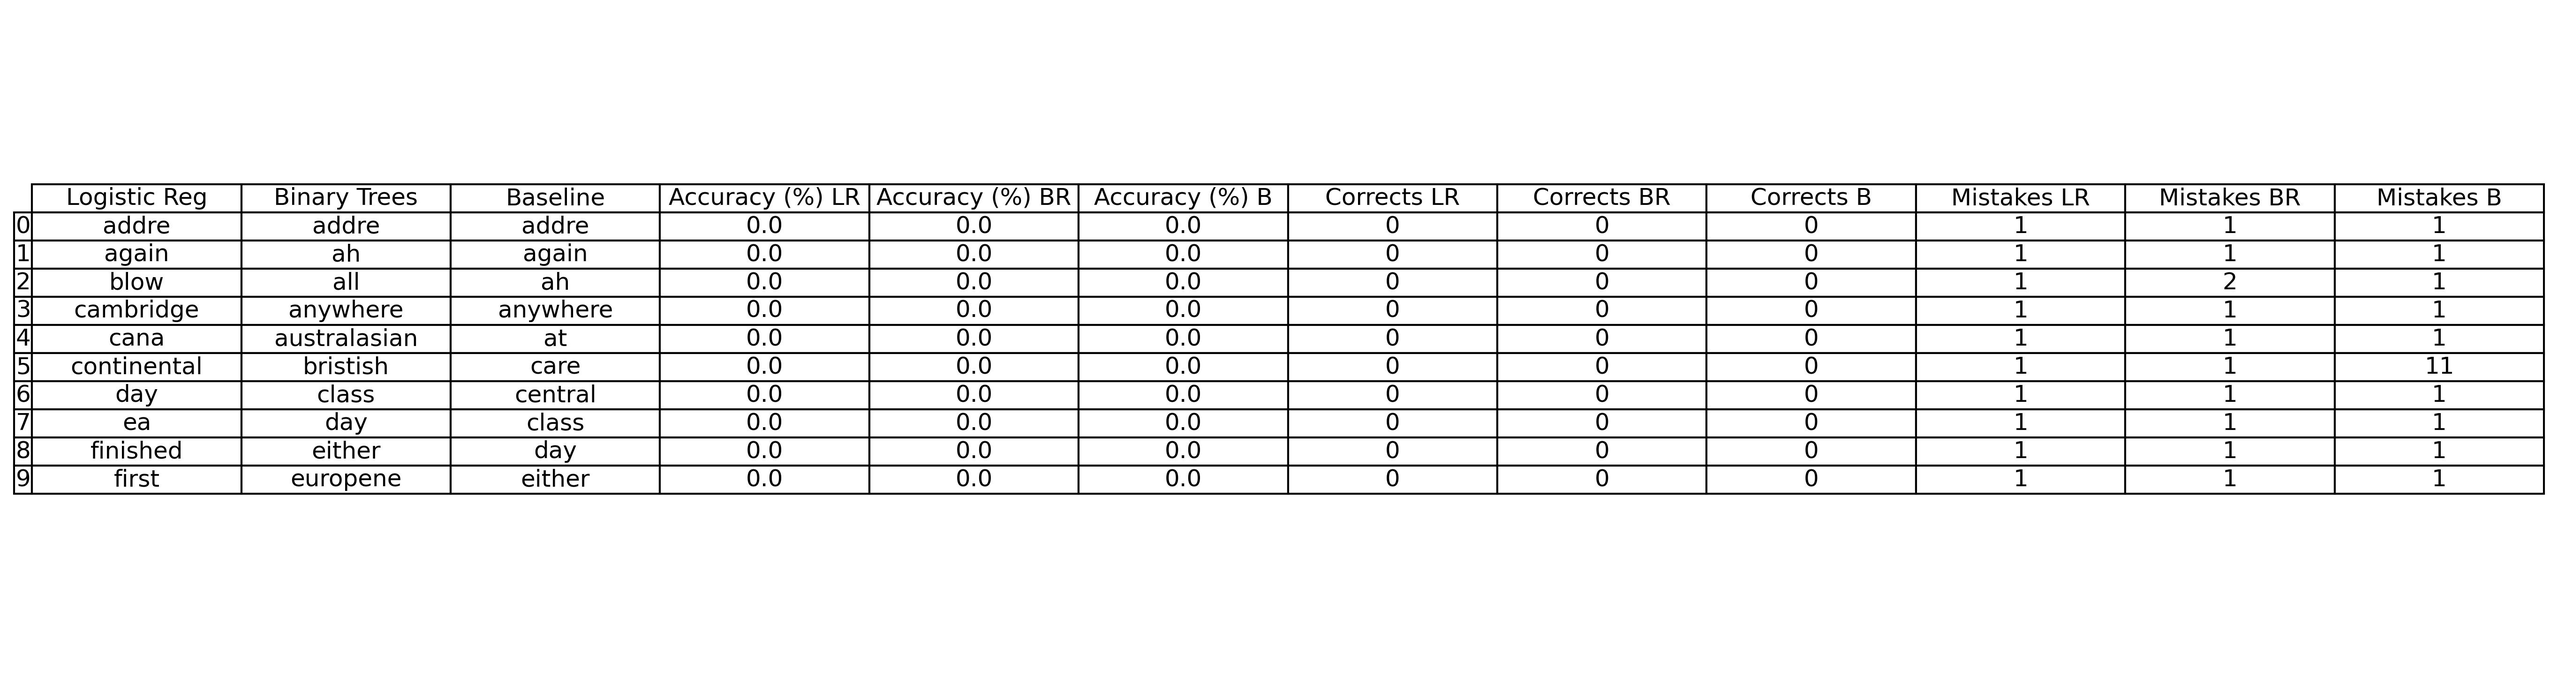
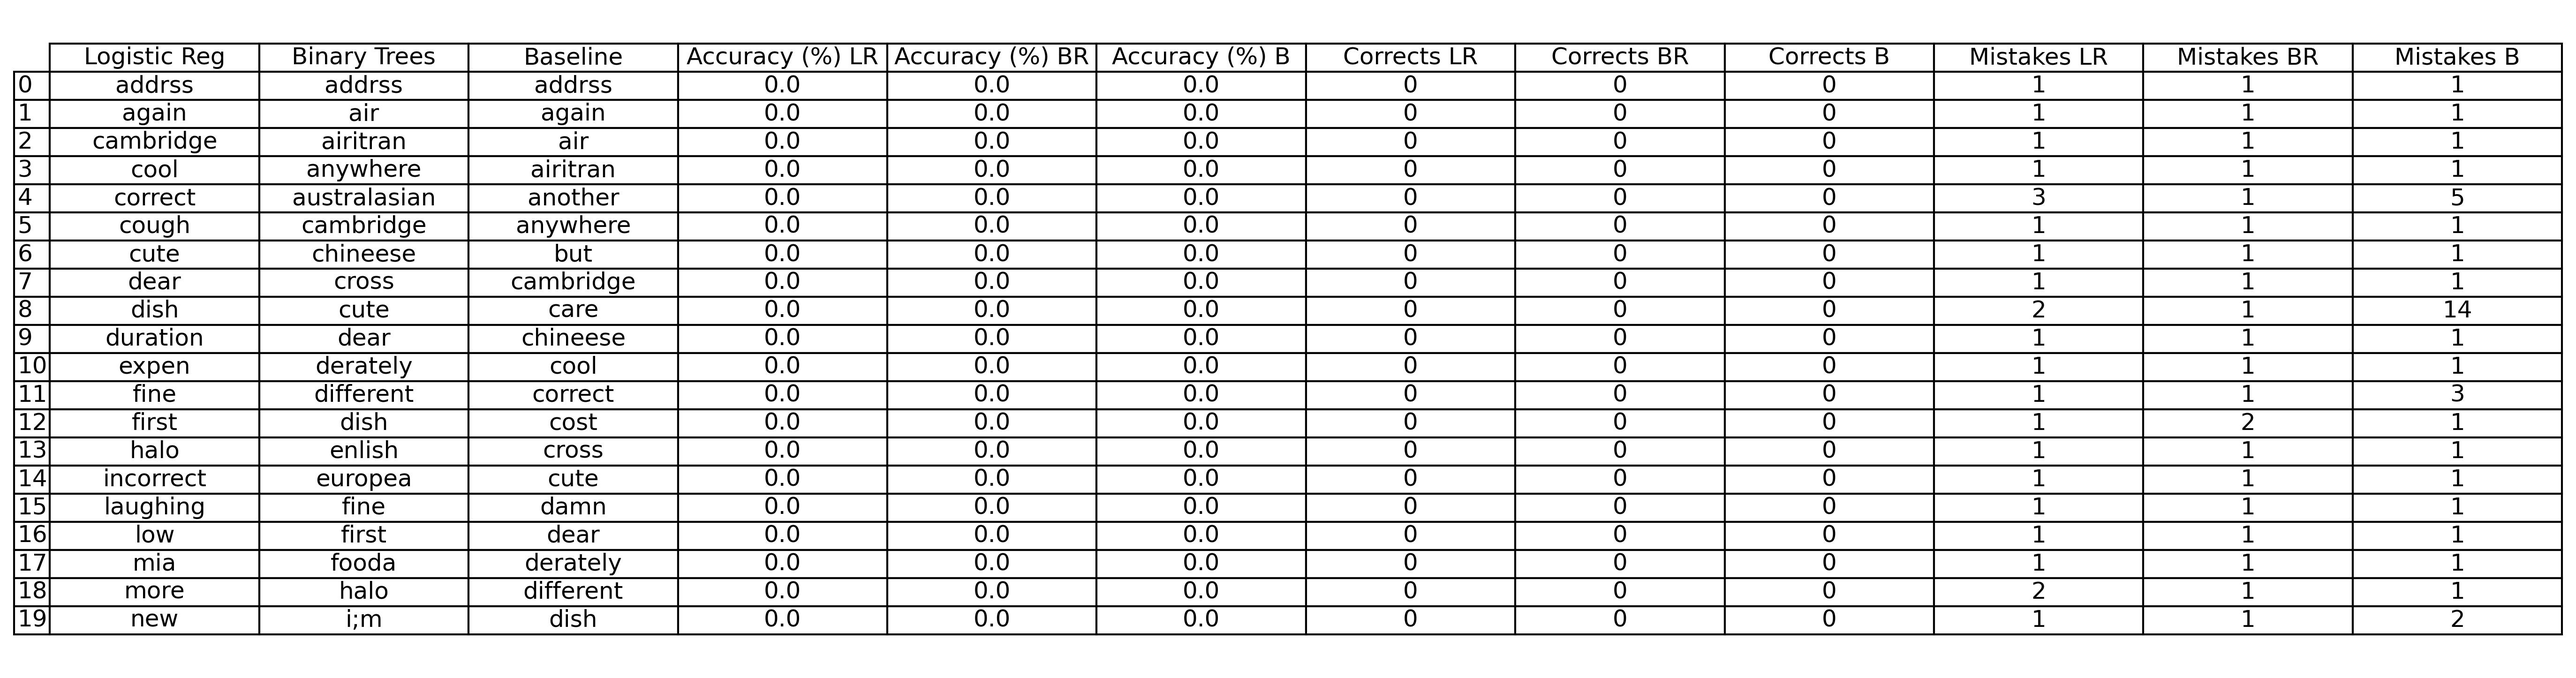
LENGTH UTTERANCE ERROR AVERAGE

diff --git a/evaluate_models.py b/evaluate_models.py
@@ -3,6 +3,7 @@ import matplotlib.pyplot as plt
 import numpy as np
 from wordcloud import WordCloud
 from source.config import load_file_paths_configuration
+from collections import defaultdict
 
 
 from source.datacreator import Datacreator
@@ -227,7 +228,7 @@ def accuracy_per_word (x_test, y_test, preds):
 
     return word_accuracy
 
-def obtain_top_worse_words (word_accuracy, k= 10):
+def obtain_top_worse_words (word_accuracy, k= 20):
     # Calculate the top k words with worse accuracy
     sorted_word_accuracy = sorted(word_accuracy.items(), key=lambda x: x[1][2])
     worst_k_words = sorted_word_accuracy[:k]
@@ -255,8 +256,6 @@ mostfailslog = obtain_top_most_failed_words(wordaccuracylog)
 mostfailstree = obtain_top_most_failed_words(wordaccuracytree)
 mostfailsbaseline = obtain_top_most_failed_words(wordaccuracybaseline)
 
-print(worsewordslog)
-print (mostfailslog)
 
 
 
@@ -294,7 +293,61 @@ table.scale(1.2, 1.2)
 ax.axis('off')
 plt.savefig('output/images/worse_words_models.jpg', bbox_inches='tight', dpi=300)
 
+from collections import defaultdict
+
+def calculate_average_error_by_length(x_test, y_test, preds):
+    # Create dictionaries to store predictions and labels by sentence length
+    predictions_by_length = defaultdict(list)
+    labels_by_length = defaultdict(list)
+
+    # Fill the dictionaries with predictions and labels based on sentence length
+    for i in range(len(x_test)):
+        x_instance = x_test[i]
+        length = len(x_instance.split())  
+
+        # Add predictions and labels to the dictionaries based on length
+        predictions_by_length[length].append(preds[i])
+        labels_by_length[length].append(y_test[i])
+
+    # Calculate average accuracy for each sentence length
+    accuracy_by_length = {}
+    for length, preds in predictions_by_length.items():
+        labels = labels_by_length[length]
+
+        correct_count = sum(1 for pred, label in zip(preds, labels) if pred == label)
+        total_count = len(preds)
+
+        if total_count > 0:
+            accuracy = correct_count / total_count
+        else:
+            accuracy = 0.0
+
+        accuracy_by_length[length] = accuracy
+
+    # Calculate the average error for each sentence length
+    error_by_length = {length: 1.0 - accuracy for length, accuracy in accuracy_by_length.items()}
+    sorted_error_by_length = dict(sorted(error_by_length.items()))
+
+    return sorted_error_by_length
 
 
 
+def plot_average_errors_by_length(error_by_length):
 
+    lengths = list(error_by_length.keys())
+    errors = list(error_by_length.values())
+
+    # Create a scatter plot
+    plt.figure(figsize=(10, 6))
+    plt.scatter(lengths, errors, c='royalblue', marker='o', s=100)
+    plt.xlabel('Sentence Length')
+    plt.ylabel('Average Error')
+    plt.title('Average Error by Sentence Length')
+    plt.xticks(lengths)
+    plt.grid(axis='y', linestyle='--', alpha=0.7)
+
+    plt.show()
+
+error_by_length = calculate_average_error_by_length(logistic_regression.x_test, logistic_regression.y_test, logistic_regression.preds)
+print(error_by_length)
+plot_average_errors_by_length(error_by_length)
